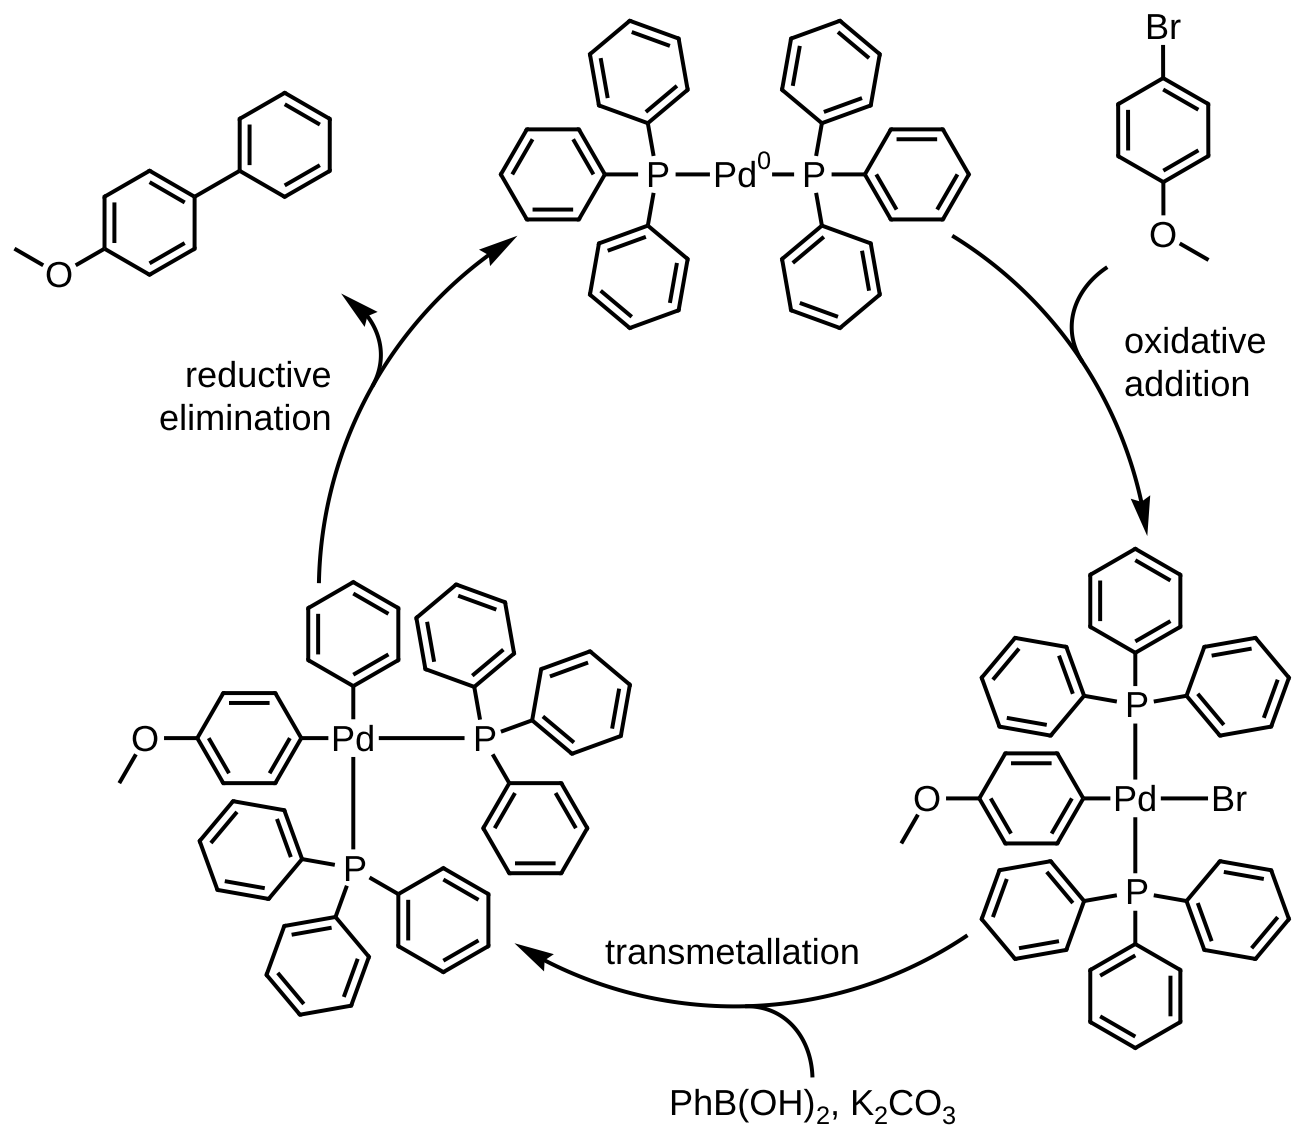
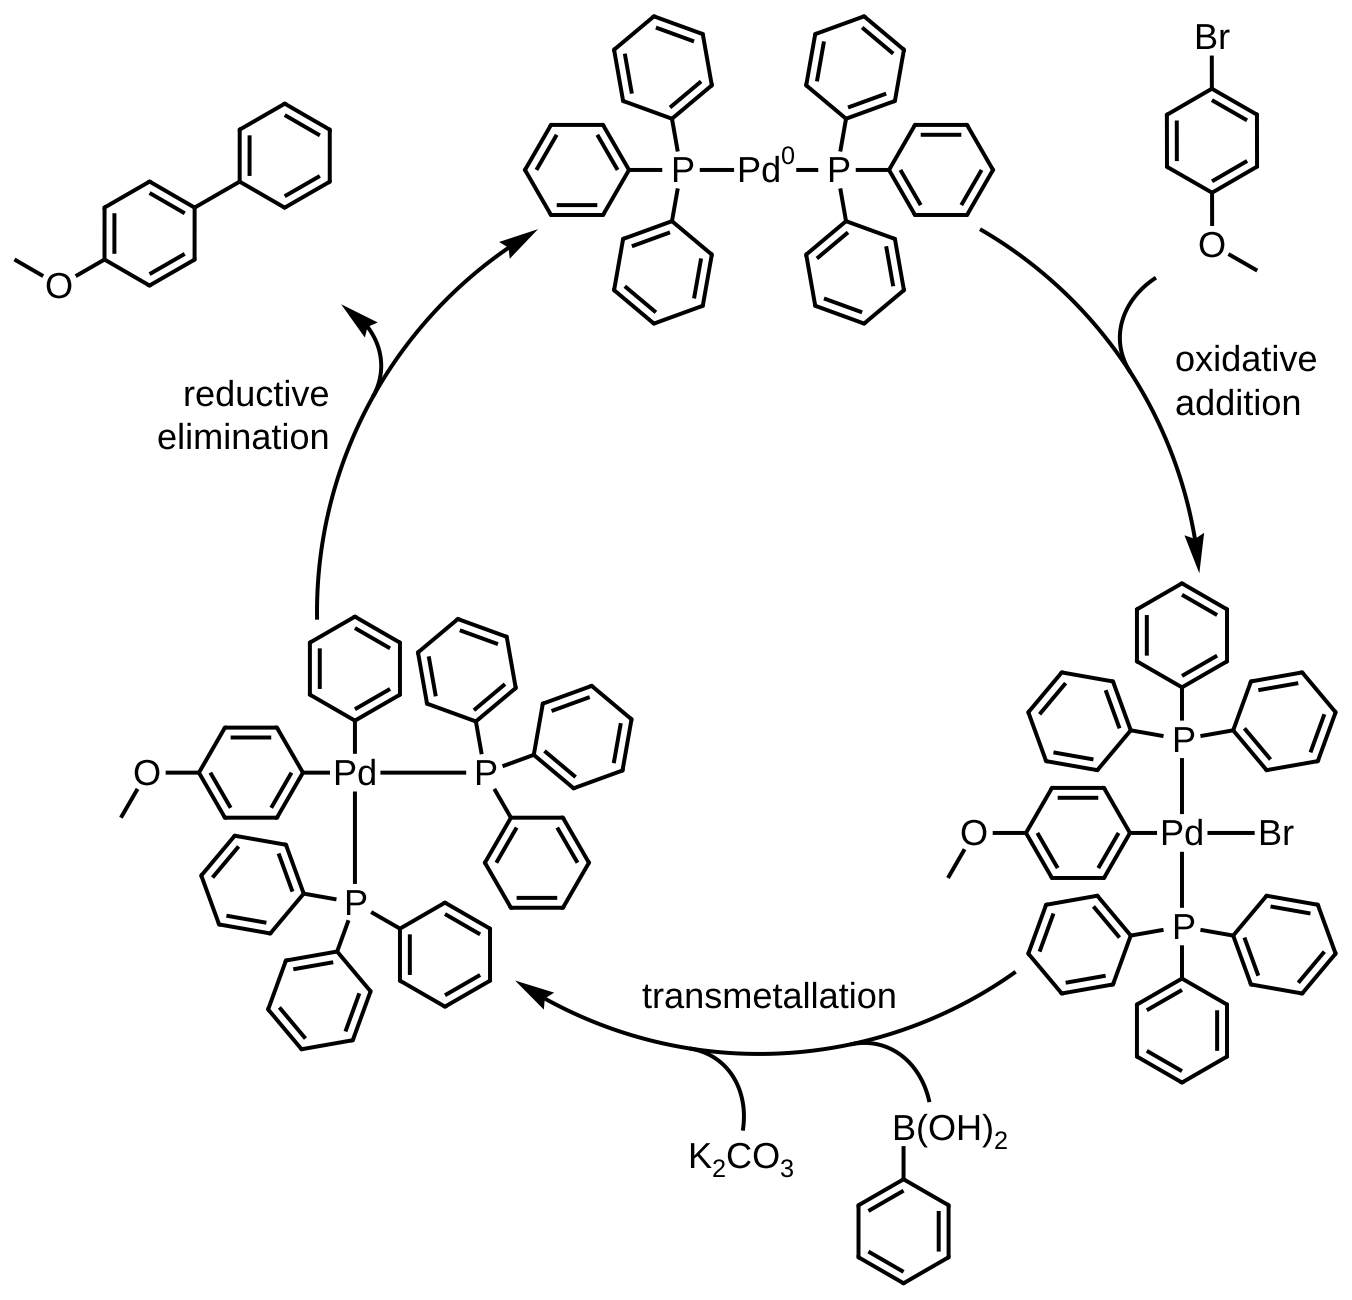
bondline 1.1.0: orbital names clear of their lobes, boronic acid drawn in the Suzuki cycle

diff --git a/skills/bondline/scripts/bondline/_scene_finish.py b/skills/bondline/scripts/bondline/_scene_finish.py
@@ -331,12 +331,12 @@ class _SceneFinish:
         lab = a.drawn and not a.hidden and a._g
         off = self._lobe_tip(a, u, A, size) if (lab and kind != "s") else 0.0
         reach = 0.42 * st.bond * size if kind == "s" else off + self.LOBE_L * st.bond * size
-        q = A + u * (reach + 0.12 * st.size)
+        q = A + u * (reach + 0.3 * st.size)
         ha = "left" if u[0] > 0.3 else "right" if u[0] < -0.3 else "center"
         va = "bottom" if u[1] > 0.3 else "top" if u[1] < -0.3 else "center"
-        col = ex[7] if len(ex) > 7 else None; T = A + u * reach; need = 0.15 * st.size
+        col = ex[7] if len(ex) > 7 else None; T = A + u * reach; need = 0.3 * st.size
         g = self._rich_geo(ex[8], q[0], q[1], st.tsize, ha, va, col)
-        for _ in range(3):                                 # its ink (a subscript's descent too) 1.5 pt clear of the tip
+        for _ in range(3):                                 # its ink (a subscript's descent too) 3 pt clear of the tip
             ext = [self.F.path(t, x, y, sz, i, bd).get_extents() for t, x, y, sz, i, bd in g["runs"] if t.strip() and not self.F.missing(t)]
             if not ext: break
             x0, y0 = min(e.x0 for e in ext), min(e.y0 for e in ext); x1, y1 = max(e.x1 for e in ext), max(e.y1 for e in ext)

diff --git a/docs/showcase/cycle.py b/docs/showcase/cycle.py
@@ -17,7 +17,7 @@ tm, p2 = anisyl_pd(); ph3(tm, tm.ligate(p2, "sqpl", length=2.5, E="P", S="P"), {
 ph = from_smiles("c1ccccc1"); ipso = ph.atoms[0]; tm.merge(ph); tm.join(p2, ipso, angle=90)
 pd0 = Mol(); p = pd0.atom("Pd^0", (0, 0)); ph3(pd0, pd0.ligate(p, "lin", length=1.5, E="P", W="P"))
 c = S.cycle([(pd0, 90), (oa, -30), (tm, 210)], radius=8)
-S.branch(c, 0, from_smiles("COc1ccc(Br)cc1"), kind="in"); S.branch(c, 1, "PhB(OH)_2, K_2CO_3", kind="in")
+S.branch(c, 0, from_smiles("COc1ccc(Br)cc1"), kind="in"); S.branch(c, 1, from_smiles("OB(O)c1ccccc1", align=(3, 1, 90)), kind="in", at=0.35); S.branch(c, 1, "K_2CO_3", kind="in", at=0.65)
 S.branch(c, 2, from_smiles("COc1ccc(cc1)c1ccccc1"), kind="out")
 S.branch(c, 0, "oxidative\naddition", kind="step"); S.branch(c, 1, "transmetallation", kind="step", side="in")
 S.branch(c, 2, "reductive\nelimination", kind="step")

diff --git a/skills/bondline/CHANGES.md b/skills/bondline/CHANGES.md
@@ -19,7 +19,8 @@
   L ligands, a bonded H beside the H of H₃PO₄). Each run of text also starts on a whole pixel, so a letter is drawn
   with identical pixels wherever it stands.
 - An orbital lobe drawn on a labelled atom (the p orbital of a C=O's oxygen) is shaded right up to the letter. A thin
-  white line used to separate the shading from the letter.
+  white line used to separate the shading from the letter. An orbital's name (`label=`) stands 3 pt clear of its
+  lobe instead of 1.5 pt.
 - Rows of a scheme (`flow()`, `row(under=)`) sit 1.3 BU apart instead of 0.9, so captions no longer crowd the
   conditions of the row below.
 
